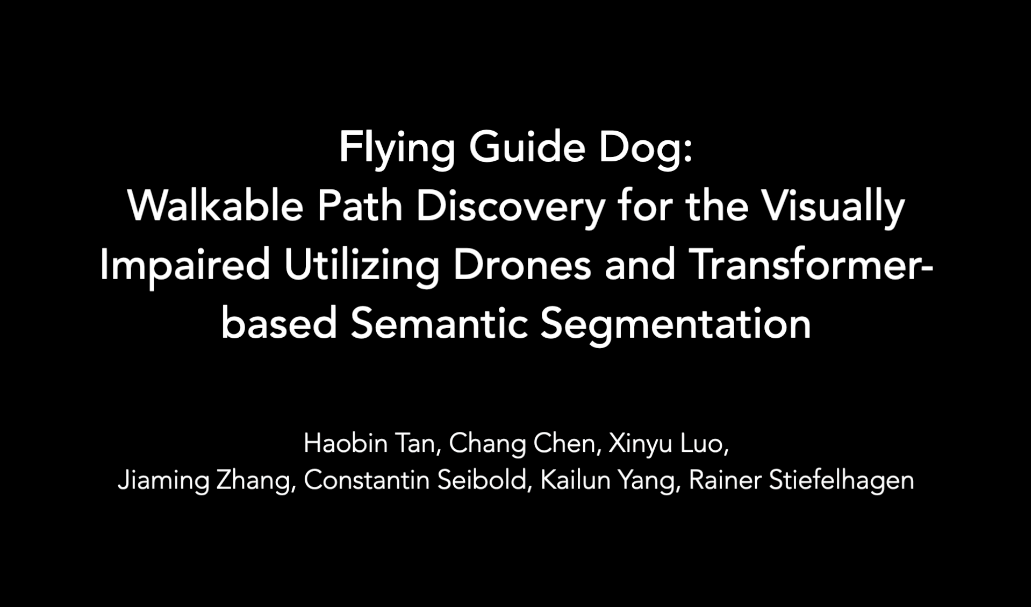
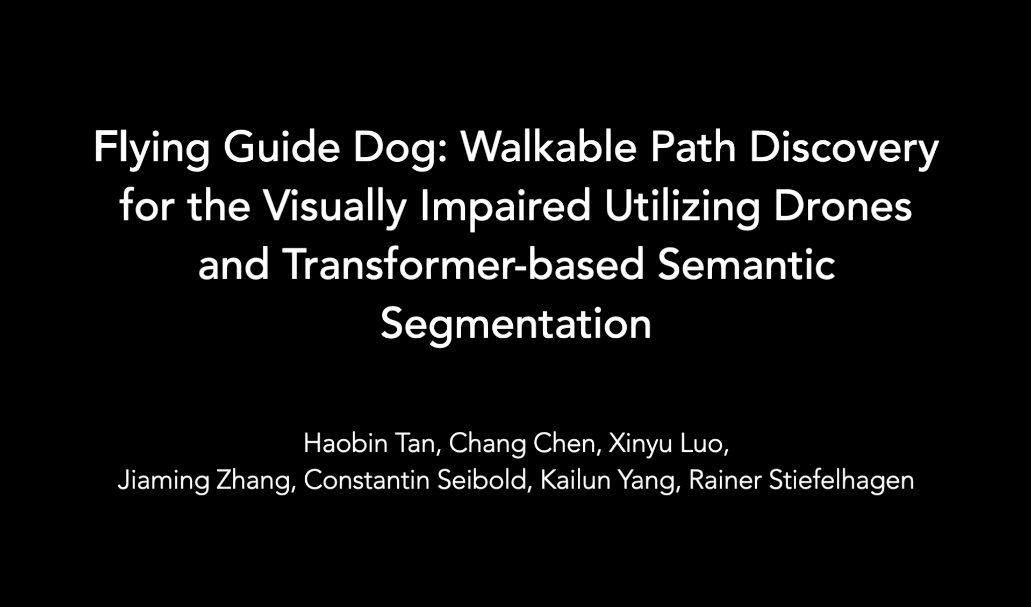
Improve README

Changed region(s): [[0.0931, 0.2076, 0.9311, 0.4745], [0.2173, 0.5041, 0.807, 0.5931]]

diff --git a/README.md b/README.md
@@ -1,8 +1,8 @@
-# Flying Guide Dog: Walkable Path Discovery Utilizing Drones
+# Flying Guide Dog
 
 ![img_concat](assets/paper_banner.png)
 
-Repository of paper "Flying Guide Dog: Walkable Path Discovery Utilizing Drones".
+Repository of paper "**Flying Guide Dog: Walkable Path Discovery for the Visually Impaired Utilizing Drones and Transformer-based Semantic Segmentation**".
 
 Code and dataset will be released soon.
 
